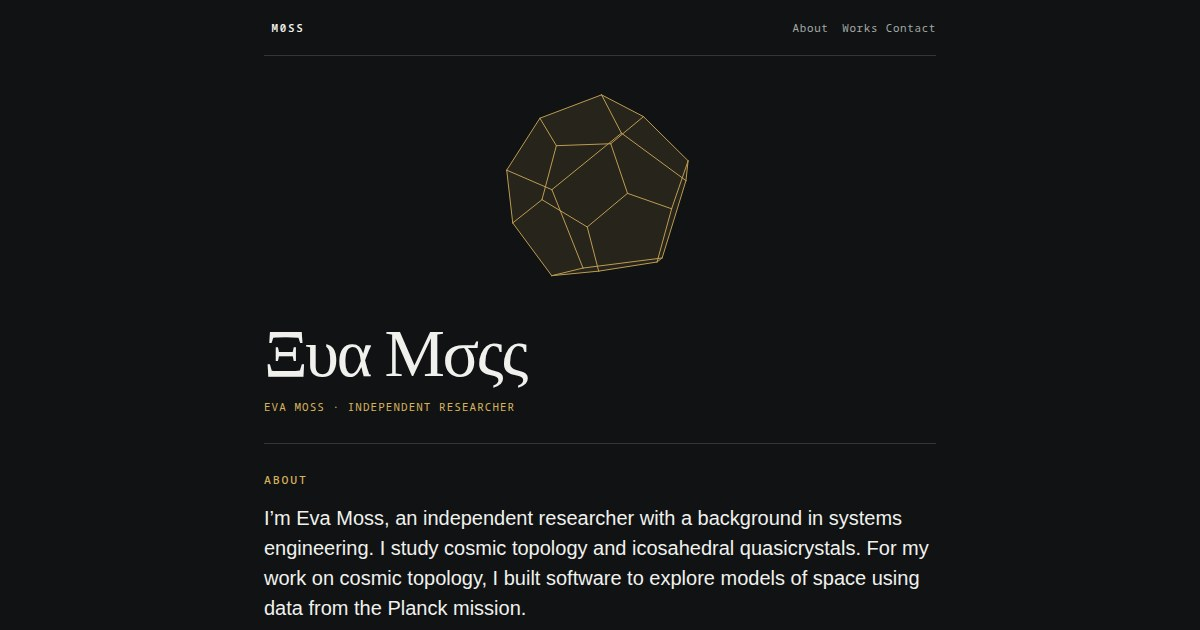
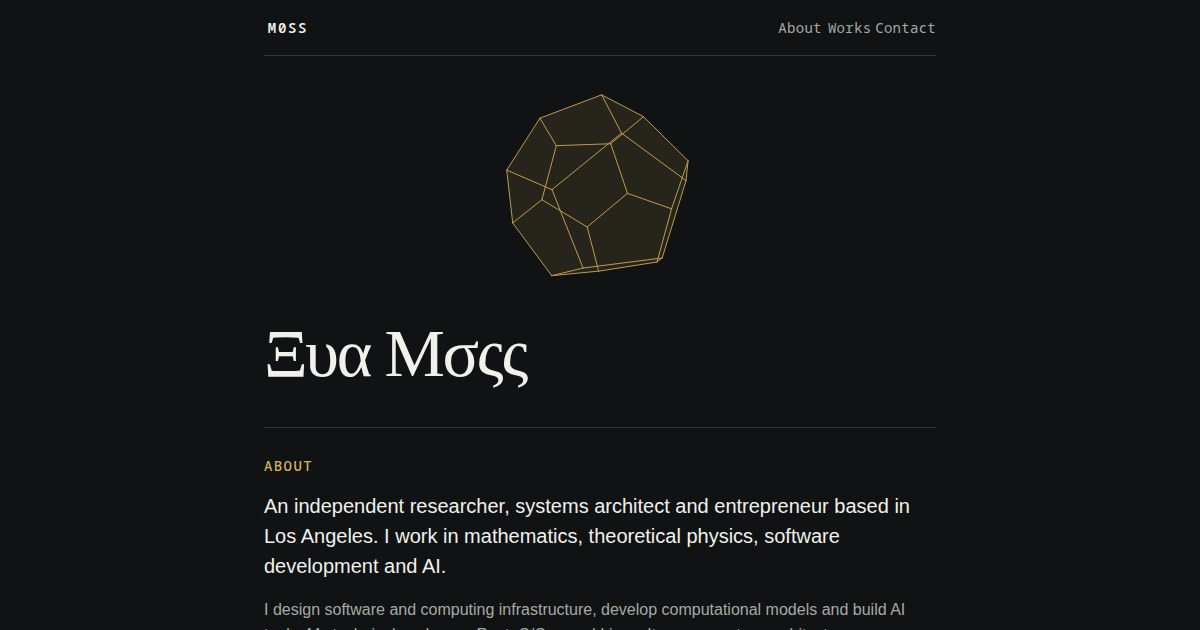
Update the biography and mobile typography

diff --git a/index.html b/index.html
@@ -3,8 +3,8 @@
 <head>
 <meta charset="utf-8">
 <meta name="viewport" content="width=device-width, initial-scale=1">
-<title>Eva Moss &#8212; Cosmic Topology and Quasicrystals</title>
-<meta name="description" content="Eva Moss, independent researcher with a background in systems engineering. Cosmic topology, icosahedral quasicrystals, and software for exploring models of space using Planck mission data.">
+<title>Eva Moss &#8212; Researcher and Systems Architect</title>
+<meta name="description" content="Eva Moss is an independent researcher, systems architect and entrepreneur in Los Angeles, working across mathematics, theoretical physics, software development and AI.">
 <meta name="author" content="Eva Moss">
 <meta name="theme-color" content="#101214">
 <meta name="color-scheme" content="dark">
@@ -15,8 +15,8 @@
 
 <meta property="og:type" content="profile">
 <meta property="og:site_name" content="Eva Moss">
-<meta property="og:title" content="Eva Moss &#8212; Cosmic Topology and Quasicrystals">
-<meta property="og:description" content="Eva Moss, independent researcher with a background in systems engineering. Cosmic topology, icosahedral quasicrystals, and software for exploring models of space using Planck mission data.">
+<meta property="og:title" content="Eva Moss &#8212; Researcher and Systems Architect">
+<meta property="og:description" content="Eva Moss is an independent researcher, systems architect and entrepreneur in Los Angeles, working across mathematics, theoretical physics, software development and AI.">
 <meta property="og:url" content="https://m0ss.io/">
 <meta property="og:image" content="https://m0ss.io/og.jpg">
 <meta property="og:image:type" content="image/jpeg">
@@ -27,8 +27,8 @@
 <meta property="profile:first_name" content="Eva">
 <meta property="profile:last_name" content="Moss">
 <meta name="twitter:card" content="summary_large_image">
-<meta name="twitter:title" content="Eva Moss &#8212; Cosmic Topology and Quasicrystals">
-<meta name="twitter:description" content="Eva Moss, independent researcher with a background in systems engineering. Cosmic topology, icosahedral quasicrystals, and software for exploring models of space using Planck mission data.">
+<meta name="twitter:title" content="Eva Moss &#8212; Researcher and Systems Architect">
+<meta name="twitter:description" content="Eva Moss is an independent researcher, systems architect and entrepreneur in Los Angeles, working across mathematics, theoretical physics, software development and AI.">
 <meta name="twitter:image" content="https://m0ss.io/og.jpg">
 <meta name="twitter:image:alt" content="Eva Moss, independent researcher, beside a gold dodecahedron">
 
@@ -44,8 +44,8 @@
     "name": "Eva Moss",
     "url": "https://m0ss.io/",
     "email": "mailto:eva@m0ss.io",
-    "jobTitle": "Independent researcher",
-    "description": "Eva Moss, independent researcher with a background in systems engineering. Cosmic topology, icosahedral quasicrystals, and software for exploring models of space using Planck mission data.",
+    "jobTitle": "Independent researcher, systems architect and entrepreneur",
+    "description": "Eva Moss is an independent researcher, systems architect and entrepreneur in Los Angeles, working across mathematics, theoretical physics, software development and AI.",
     "identifier": {
       "@type": "PropertyValue",
       "propertyID": "ORCID",
@@ -59,7 +59,9 @@
       "Cosmic topology",
       "Base 60",
       "Quasicrystals",
-      "Genetic code"
+      "Genetic code",
+      "Software development",
+      "Artificial intelligence"
     ]
   }
 }
@@ -86,8 +88,8 @@
   .skip{position:fixed;top:.75rem;left:.75rem;z-index:2;min-height:48px;display:inline-flex;align-items:center;padding:.6rem .9rem;background:var(--ink);color:var(--paper);transform:translateY(-200%)}
   .skip:focus{transform:none}
 
-  .masthead{min-height:56px;display:flex;align-items:center;gap:.5rem;border-bottom:1px solid var(--line);font:.68rem var(--mono);letter-spacing:.06em}
-  .brand{margin-right:auto;color:var(--ink);font-weight:600;letter-spacing:.16em}
+  .masthead{min-height:56px;display:flex;align-items:center;gap:.25rem;border-bottom:1px solid var(--line);font:.875rem var(--mono);letter-spacing:.02em}
+  .brand{margin-right:auto;color:var(--ink);font-weight:600;letter-spacing:.12em}
   .masthead nav{display:flex;gap:.1rem}
   .masthead a{min-width:48px;min-height:48px;display:inline-flex;align-items:center;justify-content:center;color:var(--dim);text-decoration:none}
   .masthead a:hover{color:var(--bronze)}
@@ -95,7 +97,6 @@
 
   .hero{display:flex;flex-direction:column;align-items:flex-start;gap:0;padding:20px 0 28px;border-top:0}
   h1{margin:0 0 .75rem;font-family:var(--signature);font-size:clamp(2.8rem,13vw,4.25rem);font-weight:400;line-height:.98;letter-spacing:-.035em}
-  .role{margin:0;color:var(--bronze);font:.68rem/1.5 var(--mono);letter-spacing:.1em;text-transform:uppercase}
   .stage{order:-1;align-self:center;width:min(62vw,232px);aspect-ratio:1;margin-bottom:12px;cursor:grab;touch-action:pan-y;user-select:none;-webkit-user-select:none;-webkit-tap-highlight-color:transparent}
   .stage.dragging{cursor:grabbing}
   .stage:focus-visible{outline:2px solid var(--bronze);outline-offset:.35rem;border-radius:50%}
@@ -104,15 +105,16 @@
   .edges{fill:none;stroke:var(--bronze);stroke-width:1;stroke-linecap:round;stroke-linejoin:round;vector-effect:non-scaling-stroke;opacity:.85}
 
   section{padding:clamp(1.75rem,3.5vh,2.75rem) 0;border-top:1px solid var(--line)}
-  .eyebrow{margin:0 0 1rem;color:var(--bronze);font:500 .72rem var(--mono);letter-spacing:.16em;text-transform:uppercase}
+  .eyebrow{margin:0 0 1rem;color:var(--bronze);font:500 .875rem var(--mono);letter-spacing:.1em;text-transform:uppercase}
   .about p{margin:0;font-size:clamp(1.05rem,4.4vw,1.25rem);line-height:1.5}
+  .about p+p{margin-top:1rem;color:var(--dim);font-size:1rem;line-height:1.6}
   .selected{list-style:none;margin:0;padding:0}
   .selected li+li{margin-top:1.25rem;padding-top:1.25rem;border-top:1px solid var(--line)}
   .selected .title{font-size:1.12rem}
   .summary{margin:.6rem 0 0;color:var(--dim);font-size:1rem;line-height:1.55}
   .title{min-height:48px;display:block;color:var(--ink);text-decoration:none;font-size:1.12rem;font-weight:500;line-height:1.35}
   .title:hover{color:var(--bronze)}
-  .meta{display:block;margin-top:.5rem;color:var(--dim);font:.72rem/1.6 var(--mono);letter-spacing:.01em}
+  .meta{display:block;margin-top:.5rem;color:var(--dim);font:.875rem/1.6 var(--mono);letter-spacing:.01em}
   sub{line-height:0}
 
   .contact-line{display:flex;flex-wrap:wrap;justify-content:space-between;align-items:center;gap:1rem}
@@ -120,27 +122,27 @@
   .contact-line>a,.meta a,footer a{display:inline-flex;align-items:center;min-width:48px;min-height:48px}
   form{display:grid;gap:1rem;margin-top:1.5rem}
   .field{display:grid;gap:.25rem}
-  label{color:var(--dim);font:.72rem var(--mono)}
+  label{color:var(--dim);font:.875rem var(--mono)}
   input,textarea{width:100%;border:0;border-bottom:1px solid var(--line);border-radius:0;background:transparent;color:var(--ink);padding:.55rem 0;font:1rem var(--display);resize:vertical}
   input{min-height:48px}
   input:focus,textarea:focus{border-bottom-color:var(--bronze)}
   textarea{min-height:5.5rem}
-  button{justify-self:start;min-height:48px;border:1px solid var(--ink);background:var(--ink);color:var(--paper);padding:.75rem 1.1rem;font:.72rem var(--mono);letter-spacing:.06em;cursor:pointer}
+  button{justify-self:start;min-height:48px;border:1px solid var(--ink);background:var(--ink);color:var(--paper);padding:.75rem 1.1rem;font:.875rem var(--mono);letter-spacing:.04em;cursor:pointer}
   button:hover{background:var(--bronze);border-color:var(--bronze)}
 
   details{border-top:1px solid var(--line)}
   details:last-of-type{border-bottom:1px solid var(--line)}
-  summary{min-height:56px;display:flex;align-items:center;justify-content:space-between;gap:1rem;list-style:none;font:.82rem var(--mono);cursor:pointer}
+  summary{min-height:56px;display:flex;align-items:center;justify-content:space-between;gap:1rem;list-style:none;font:.875rem var(--mono);cursor:pointer}
   summary::-webkit-details-marker{display:none}
-  .count{color:var(--bronze);font-size:.72rem}
+  .count{color:var(--bronze);font-size:.875rem}
   .plus{display:inline-block;margin-left:.5rem;transition:transform .2s ease}
   details[open] .plus{transform:rotate(45deg)}
   details::details-content{block-size:0;overflow:hidden;transition:block-size .24s ease,content-visibility .24s allow-discrete}
   details[open]::details-content{block-size:auto}
   .works{list-style:none;margin:0;padding:0 0 .75rem}
   .works li{padding:1.15rem 0;border-top:1px solid var(--line)}
-  .archive-note{margin:1rem 0 0;color:var(--dim);font:.68rem/1.6 var(--mono);letter-spacing:.04em}
-  footer{display:flex;flex-wrap:wrap;justify-content:space-between;gap:.75rem 1rem;padding:2rem 0 2.5rem;color:var(--dim);font:.68rem/1.6 var(--mono)}
+  .archive-note{margin:1rem 0 0;color:var(--dim);font:.875rem/1.6 var(--mono);letter-spacing:.02em}
+  footer{display:flex;flex-wrap:wrap;justify-content:space-between;gap:.75rem 1rem;padding:2rem 0 2.5rem;color:var(--dim);font:.875rem/1.6 var(--mono)}
   footer a{color:var(--dim)}
 
   @media (max-width:22rem){
@@ -168,7 +170,6 @@
     <section class="hero" aria-labelledby="author-name">
       <div>
         <h1 id="author-name" aria-label="Eva Moss">&#926;&#965;&#945;&nbsp;M&#963;&#962;&#962;</h1>
-        <p class="role">Independent researcher</p>
       </div>
       <div class="stage" id="stage" tabindex="0" role="application" aria-label="Dodecahedron. Drag, or use the arrow keys, to turn it." aria-keyshortcuts="ArrowUp ArrowDown ArrowLeft ArrowRight">
         <svg id="dod" viewBox="-1.1 -1.1 2.2 2.2" aria-hidden="true" focusable="false">
@@ -193,9 +194,13 @@
 
     <section class="about" aria-labelledby="about-title">
       <h2 class="eyebrow" id="about-title">About</h2>
-      <p>I&#8217;m an independent researcher with a background in systems engineering.
-      I study cosmic topology and icosahedral quasicrystals. For my work on cosmic topology,
-      I built software to explore models of space using data from the Planck mission.</p>
+      <p>An independent researcher, systems architect and entrepreneur based in Los Angeles.
+      I work in mathematics, theoretical physics, software development and AI.</p>
+      <p>I design software and computing infrastructure, develop computational models and build
+      AI tools. My technical work uses Rust, C/C++ and Linux. It covers system architecture,
+      implementation, debugging and testing.</p>
+      <p>I founded and ran a network security company. My experience includes product
+      development, production processes, team management and business operations.</p>
     </section>
 
     <section aria-labelledby="selected-title">

diff --git a/README.md b/README.md
@@ -1,7 +1,7 @@
 # m0ss.io
 
-The personal site of Eva Moss, independent researcher: the Theory of Temporal Spheres and
-dodecahedral structure across cosmology, physics, number theory and biology.
+The personal site of Eva Moss, independent researcher, systems architect and entrepreneur:
+mathematics, theoretical physics, software development and AI.
 
 Live at **[m0ss.io](https://m0ss.io)**.
 
@@ -20,7 +20,7 @@ There are no web fonts, analytics, form services or other third-party requests.
 ## Design
 
 The site is a mobile-first research page: the author's Greek signature and dodecahedron, a
-one-paragraph About, three Selected work entries, correspondence, then the complete
+short About, three Selected work entries, correspondence, then the complete
 publication archive. The section navigation uses ordinary anchors. The archive uses native
 `<details>` elements grouped by year. Every publication remains in the HTML and can be opened
 without JavaScript; supporting browsers animate the disclosure with CSS.
